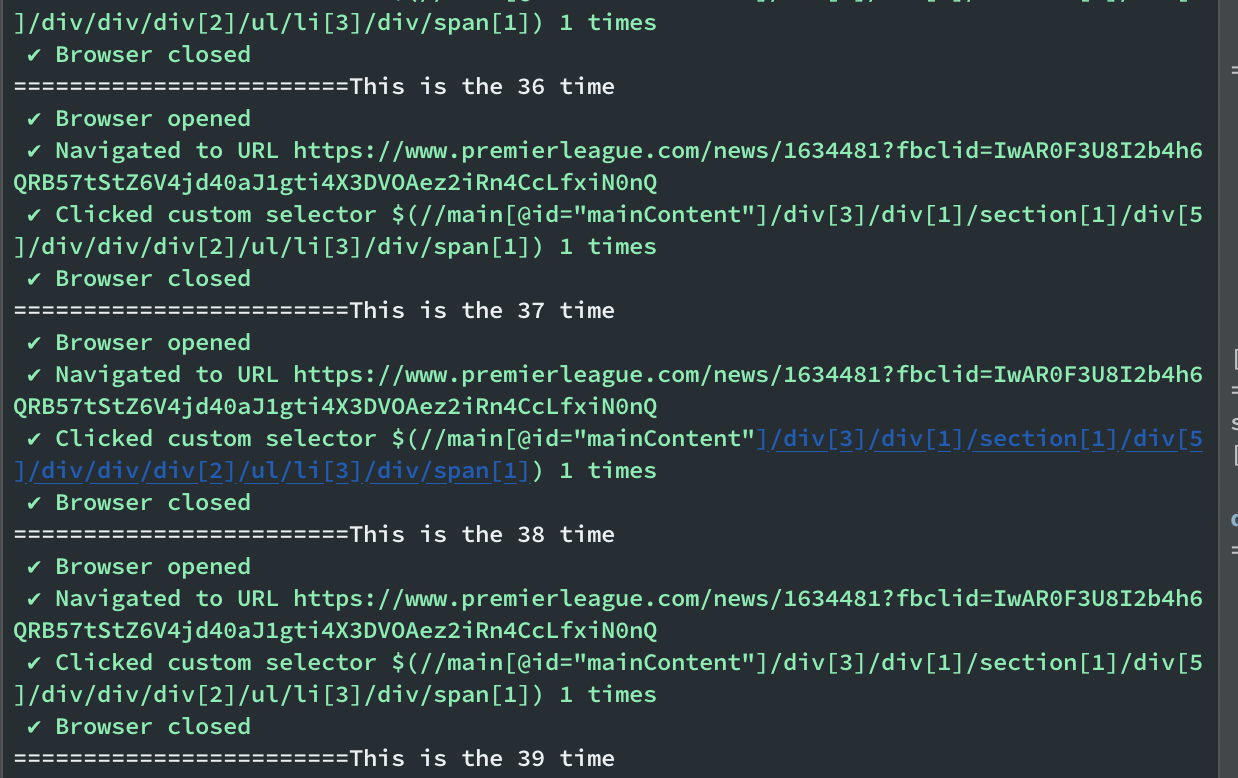
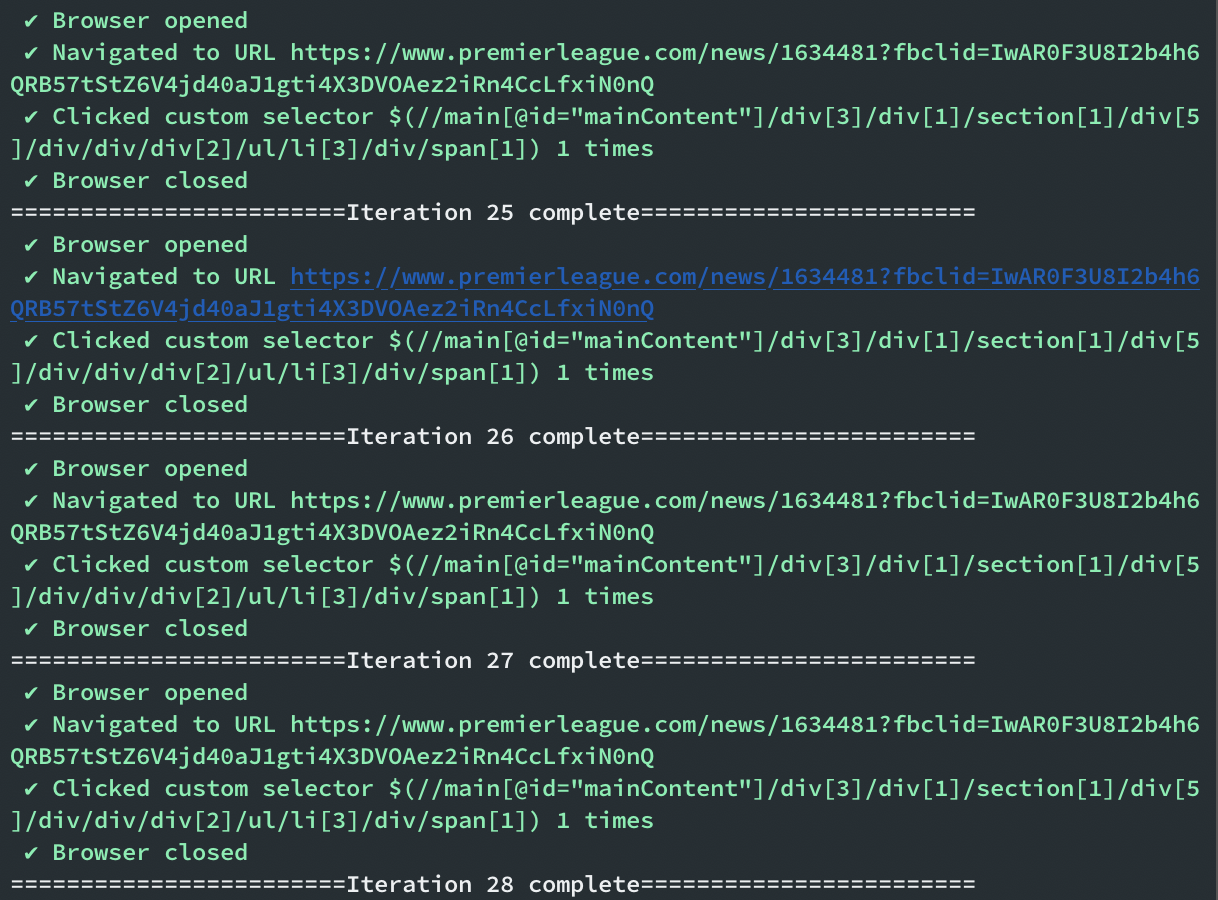
some improvements

Changed region(s): [[0.0, 0.0, 1.0, 1.0]]

diff --git a/voting-ole-loop.js b/voting-ole-loop.js
@@ -1,6 +1,7 @@
 const { openBrowser, goto, waitFor, $, click, closeBrowser } = require('taiko');
+const max = 500;
 (async () => {
-    for (i = 0; i < 500; i++) {
+    for (i = 0; i < max; i++) {
 
 
         try {
@@ -14,6 +15,6 @@ const { openBrowser, goto, waitFor, $, click, closeBrowser } = require('taiko');
         } finally {
             await closeBrowser();
         }
-        console.log(`========================This is the ${i+1} time`)
+        console.log(`========================Iteration ${i+1} complete========================`)
     }
 })();

diff --git a/README.md b/README.md
@@ -1,8 +1,20 @@
 # vote-ole-gunnar-solskjaer
-Basically I wrote a script using taiko and repeated it certain number of times to vote my favorite club Manchester United manager, manager of the month :D
+Basically I wrote this script using taiko and nodejs to vote my favorite club(Manchester United) manager, Ole gunnar solskjaer, as manager of the month for February 2020 :D
+
+To see how the script works in GUI, use the following script since this only runs once
+
+    $ taiko voting-ole.js --observe
+
+To run the script in **n** number of times change the value of **"max"** in **"voting-ole-loop.js"** file and run the following script
+
+    $ taiko voting-ole-loop.js
+
+This will simply run the script in background.
+
+
 
 The script seems to be running fine :D
 
 ![Script running](https://github.com/tsachit/vote-ole-gunnar-solskjaer/blob/master/taiko-voting.png?raw=true)
 
-Note: Did this for fun and learning purpose only so if your manager didn't win I'm sorry. Lol
+**Note:** Did this for fun and learning purpose only so if your manager didn't win I'm sorry. Lol
